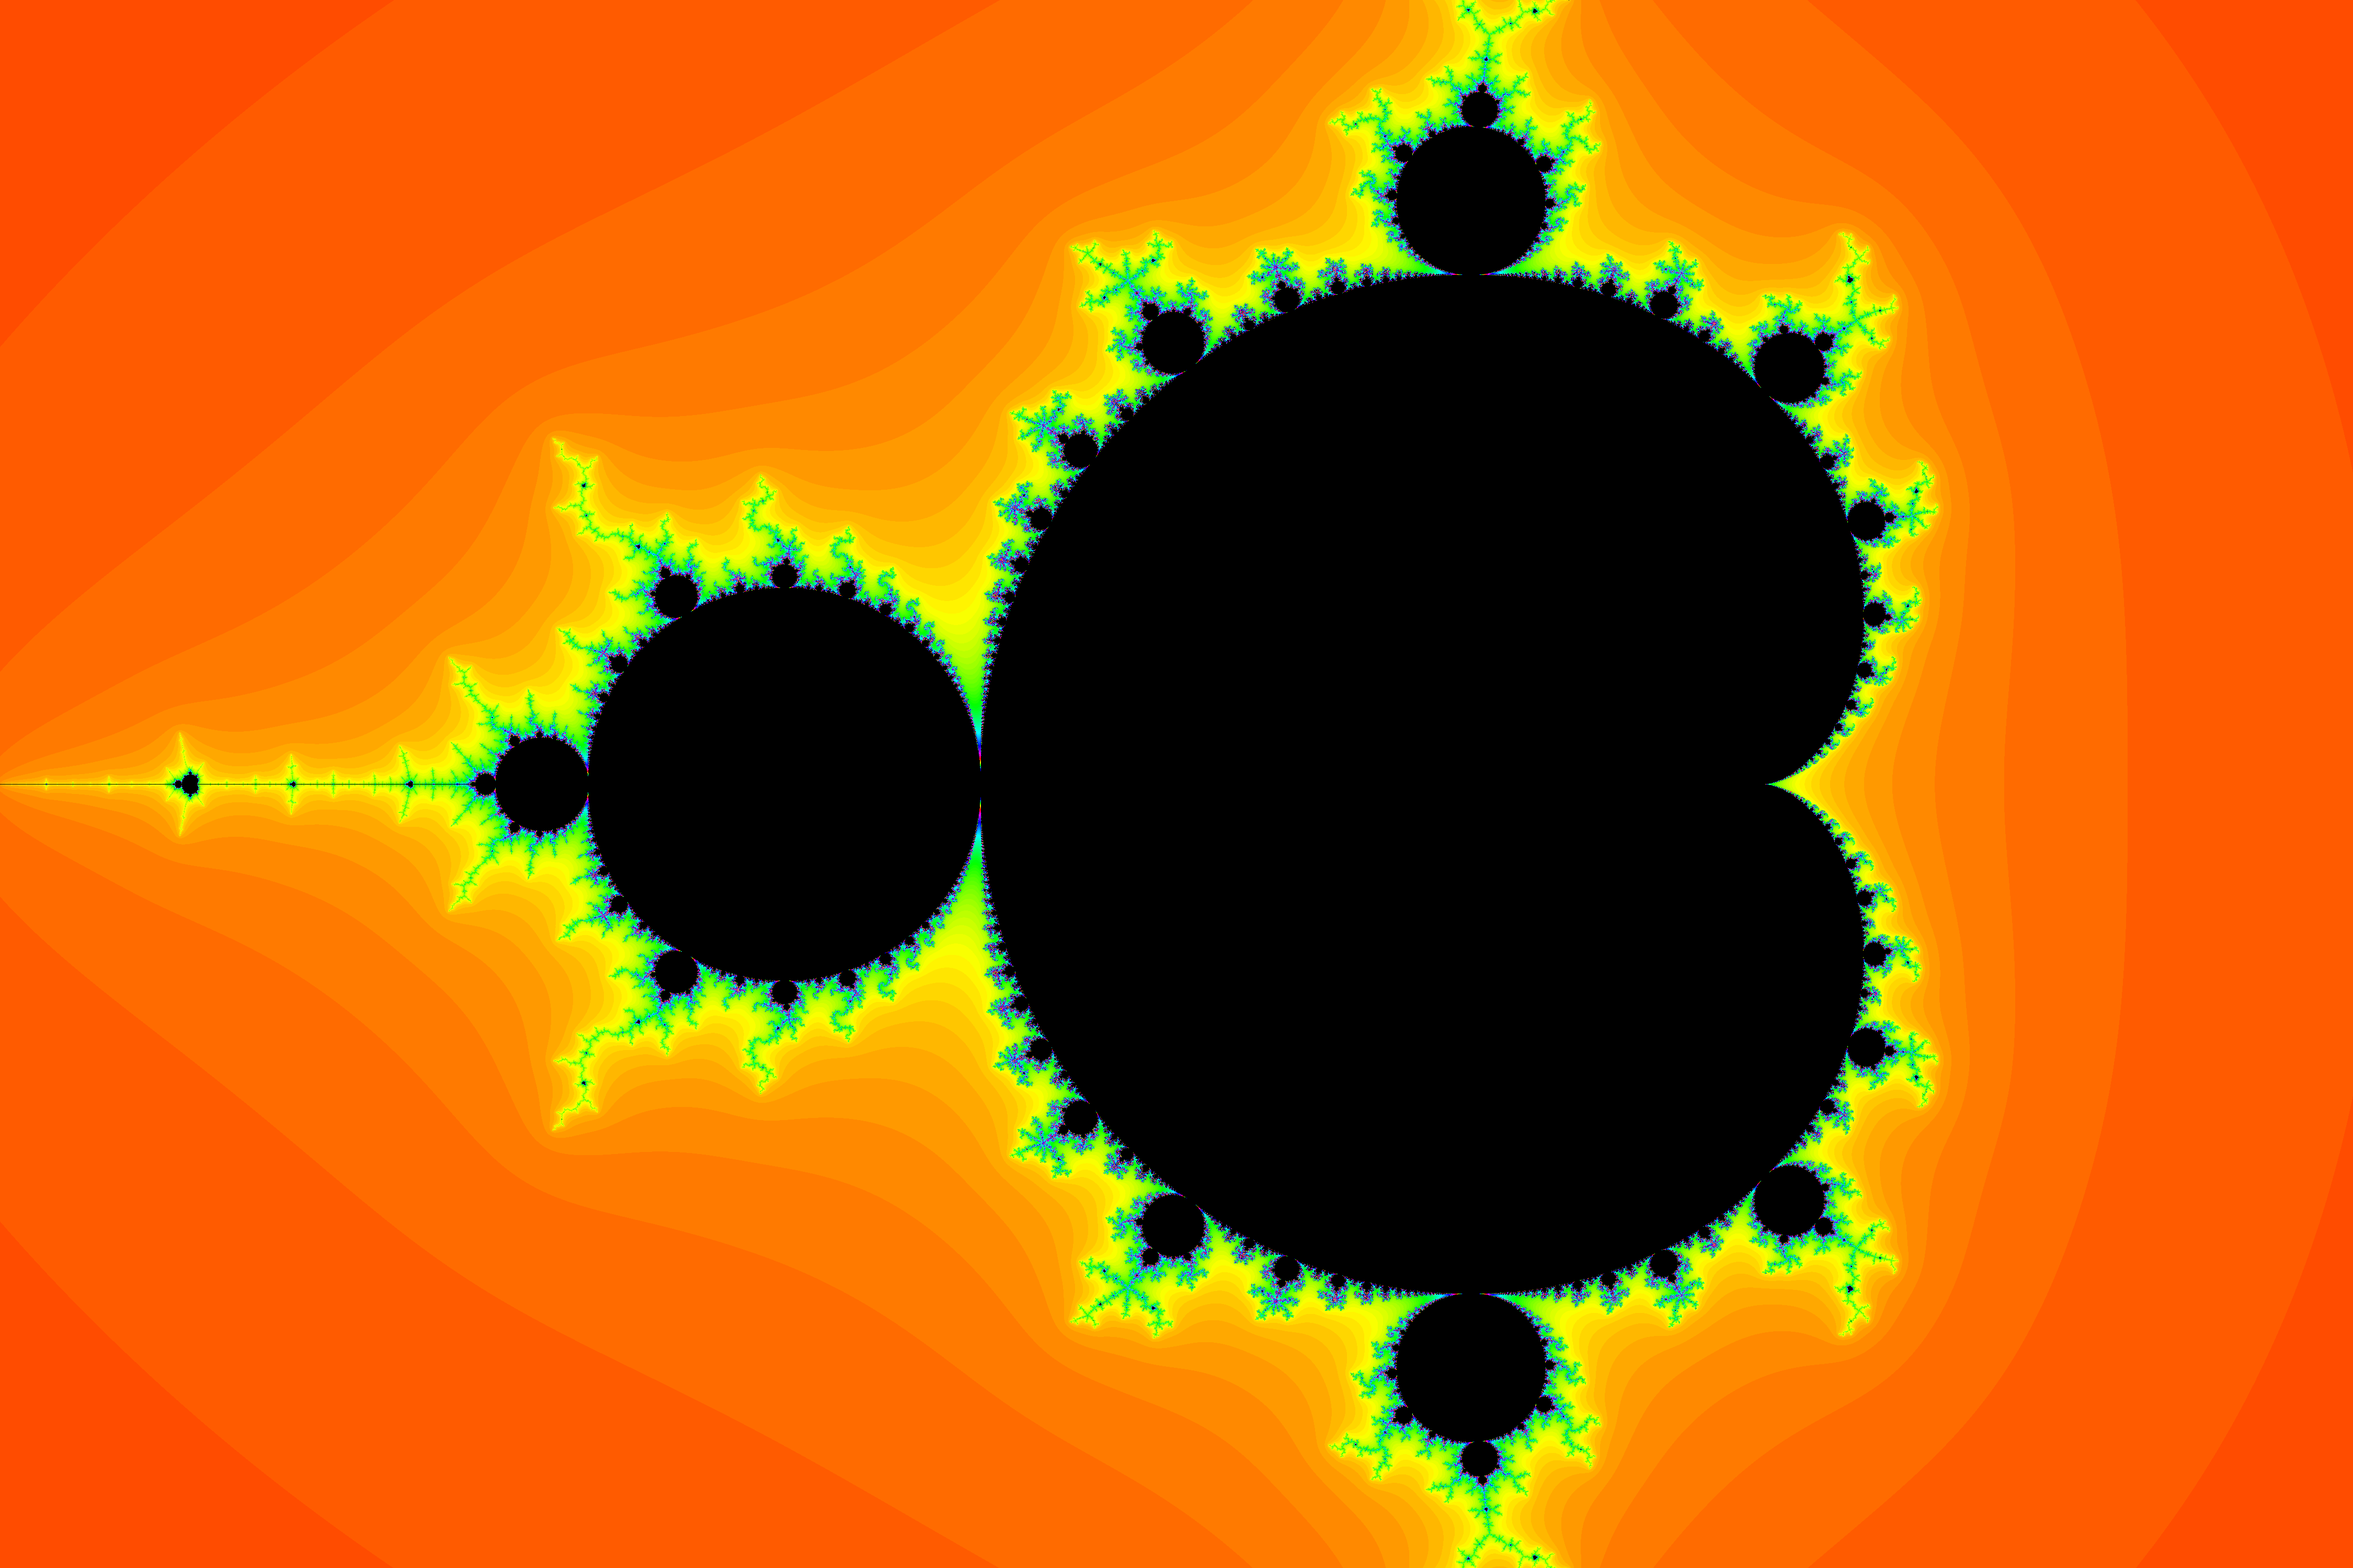
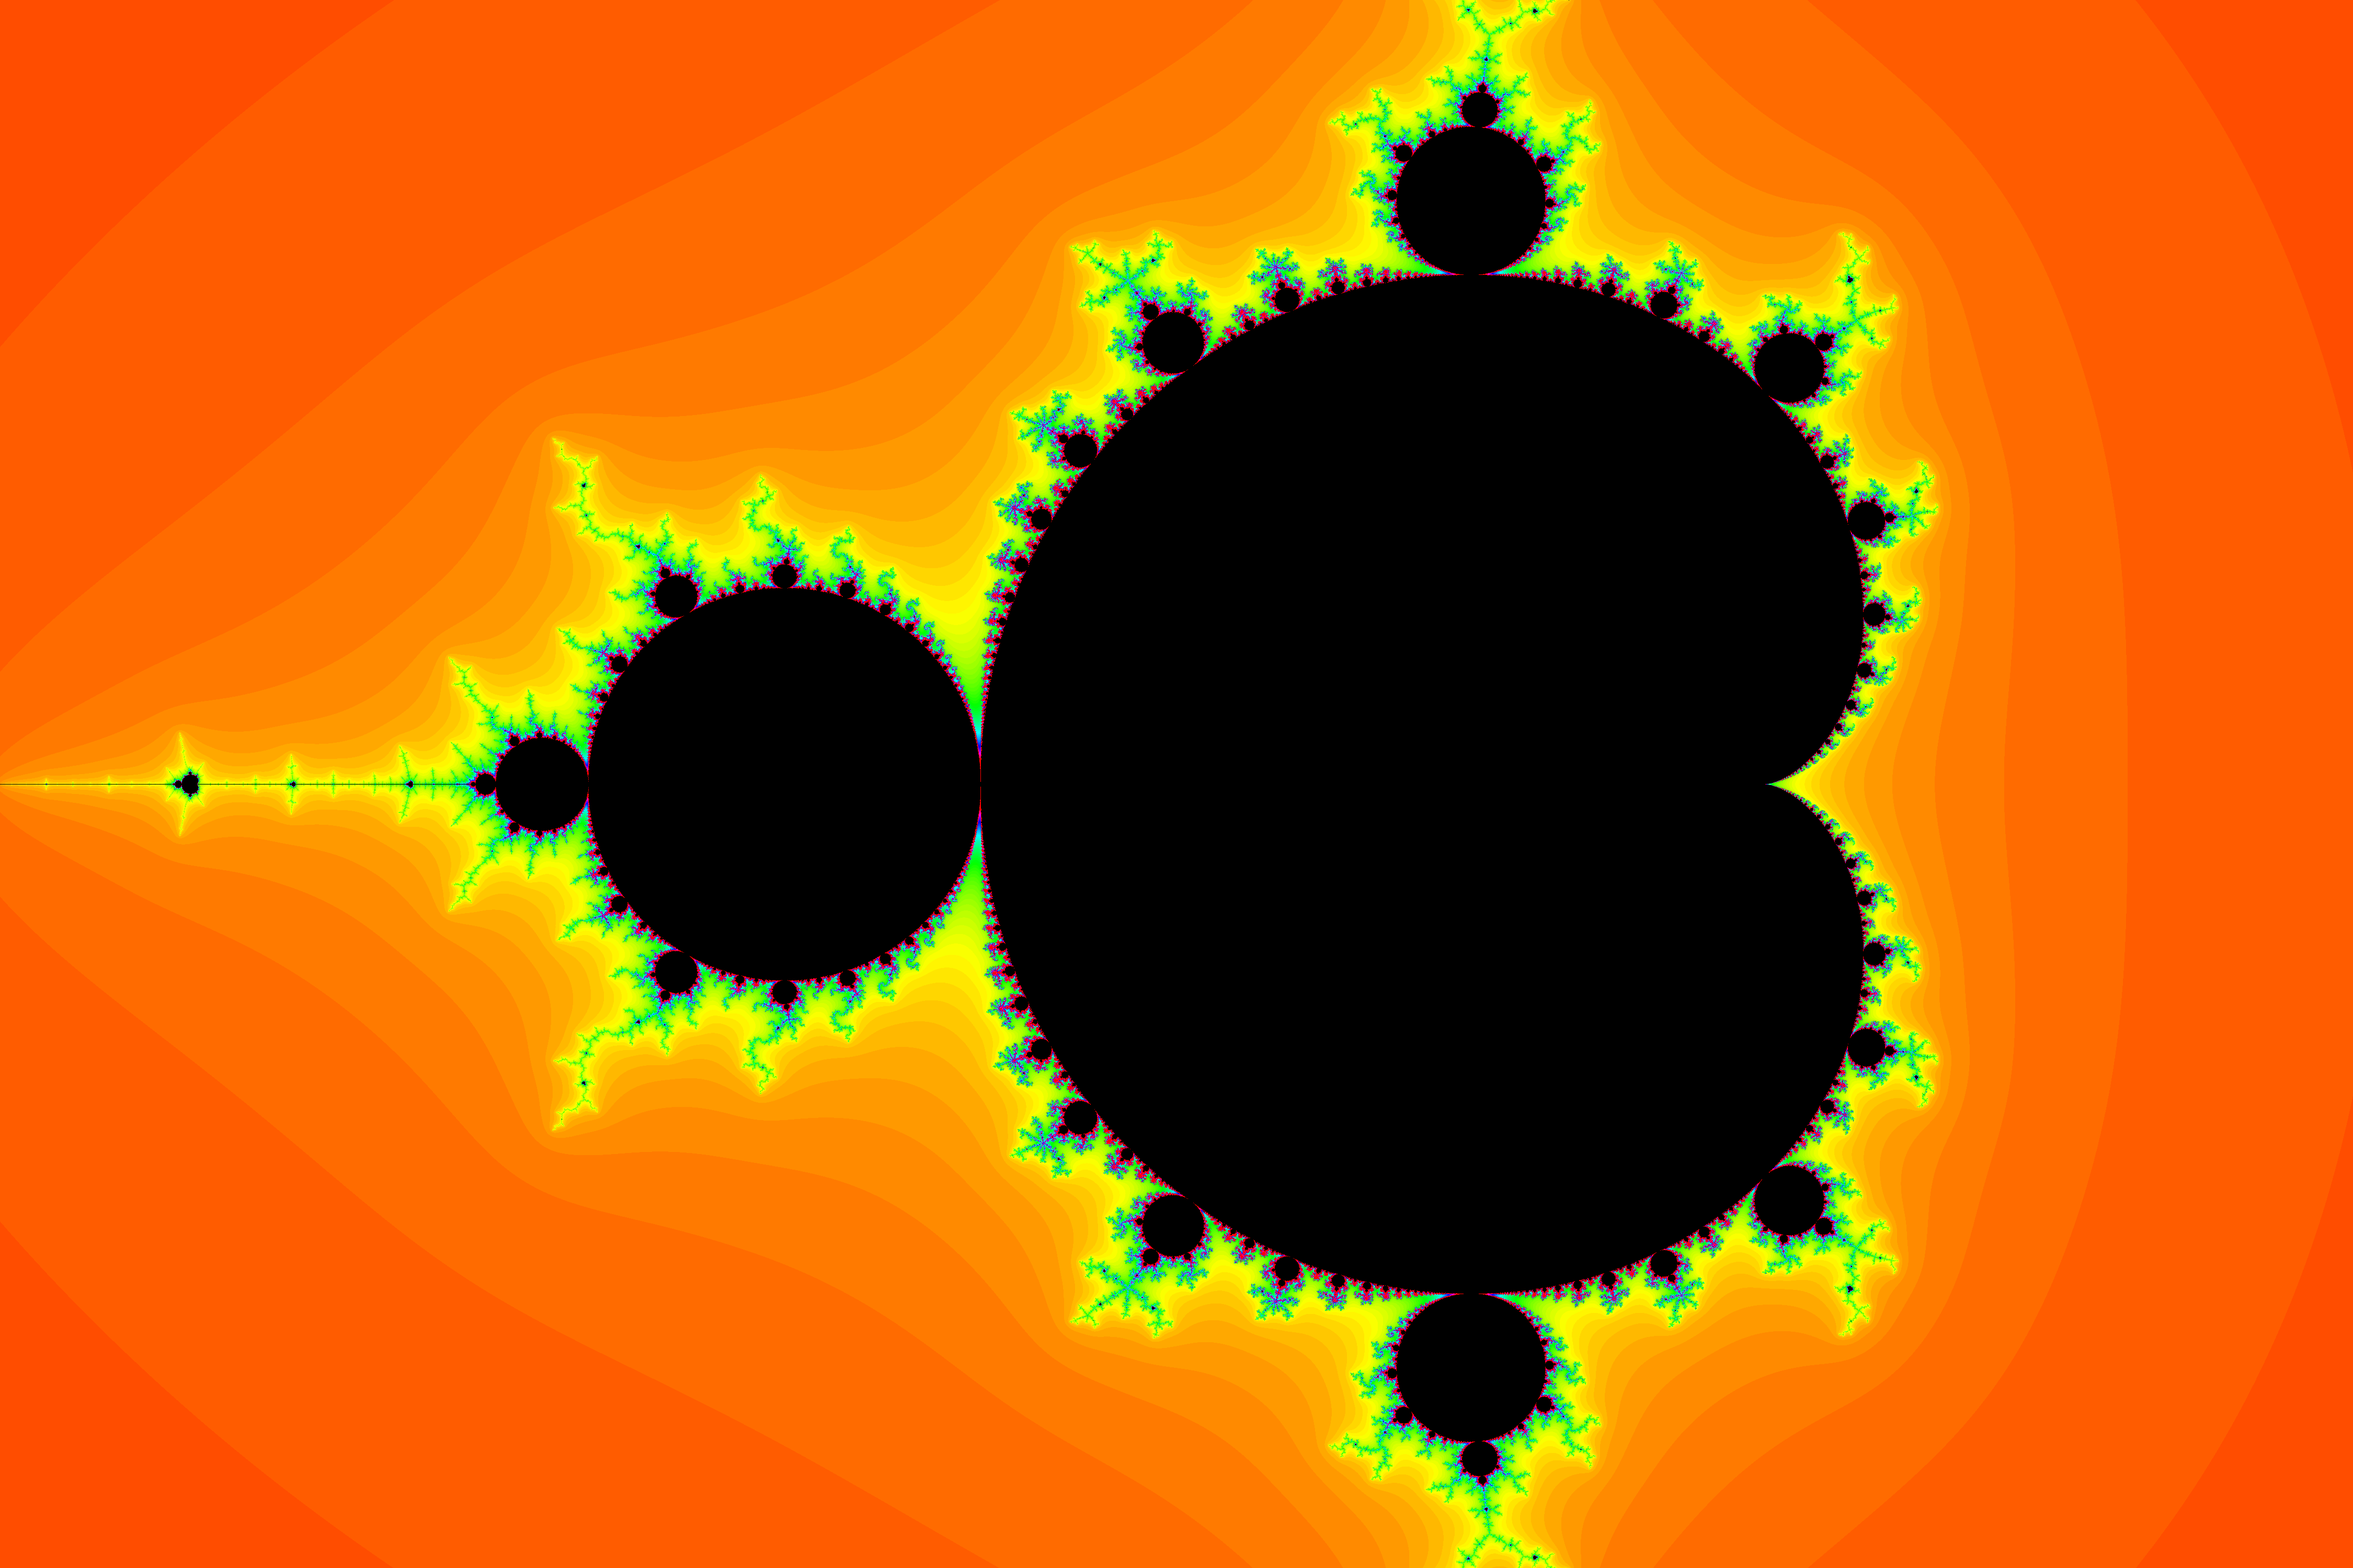
Improvements

diff --git a/MandelbrotSharp/Mandelbrot.cs b/MandelbrotSharp/Mandelbrot.cs
@@ -1,70 +1,46 @@
-using SixLabors.ImageSharp;
+using SixLabors.ImageSharp.ColorSpaces;
+using SixLabors.ImageSharp.ColorSpaces.Conversion;
 
-public class Mandelbrot {
+public class Mandelbrot
+{
 
     public static readonly int MAX_ITERATIONS = 1000;
 
-    public void generateImage(int height) {
-        int width = (int) (height * 1.5);
+    public void generateImage(int height)
+    {
+        int width = (int)(height * 1.5);
         Image<Rgba32> image = new Image<Rgba32>(width, height);
 
-        Parallel.For(0, width, x => {
+        Parallel.For(0, width, x =>
+        {
             // Scale x to (-2, 1), zero is the center
             double real = (x - height) / (height / 2.0);
-            for (int y = 0; y < height; y++) {
+            Parallel.For(0, height, y =>
+            {
                 // Scale y to (-1, 1), zero is the center
                 double imaginary = (y - height / 2.0) / (height / 2.0);
                 Complex c = new Complex(real, imaginary);
                 Complex z = new Complex(0, 0);
                 int iterations = mandelbrot(z, c);
-                image[x, y] = hslToRgb(((iterations / 100.0) * 360.0), 100, iterations < MAX_ITERATIONS ? 50 : 0);
-            }
+
+                var color = new Hsl(((iterations / 100.0f) * 360.0f), 1.0f, iterations < MAX_ITERATIONS ? 0.5f : 0);
+                var rgb = ColorSpaceConverter.ToRgb(color);
+
+                image[x, y] = new Rgba32(rgb.R, rgb.G, rgb.B);
+            });
         });
 
         image.Save("mandelbrot.png");
     }
 
-    private int mandelbrot(Complex z, Complex c) {
+    private int mandelbrot(Complex z, Complex c)
+    {
         int iterations = 0;
-        do {
+        do
+        {
             z = z * z + c;
             iterations++;
-        } while (z.magnitude() < 1000 && iterations < MAX_ITERATIONS);
+        } while (z.magnitudeSquared() < 1000000 && iterations < MAX_ITERATIONS); // |z| < 1000
         return iterations;
     }
-
-    // Hue: 0-360
-    // Saturation: 0-100
-    // Lightness: 0-100
-    private Rgba32 hslToRgb(double hue, double saturation, double lightness) {
-        double h = hue / 360.0;
-        double s = saturation / 100.0;
-        double l = lightness / 100.0;
-        double q = l < 0.5 ? l * (1 + s) : l + s - l * s;
-        double p = 2 * l - q;
-        double r = hueToRgb(p, q, h + 1 / 3.0);
-        double g = hueToRgb(p, q, h);
-        double b = hueToRgb(p, q, h - 1 / 3.0);
-        return new Rgba32((byte)(r * 255), (byte)(g * 255), (byte)(b * 255));
-    }
-
-    private double hueToRgb(double p, double q, double t) {
-        if (t < 0) {
-            t += 1;
-        }
-        if (t > 1) {
-            t -= 1;
-        }
-        if (t < 1 / 6.0) {
-            return p + (q - p) * 6 * t;
-        }
-        if (t < 1 / 2.0) {
-            return q;
-        }
-        if (t < 2 / 3.0) {
-            return p + (q - p) * (2 / 3.0 - t) * 6;
-        }
-        return p;
-    }
-
 }

diff --git a/MandelbrotSharp/Complex.cs b/MandelbrotSharp/Complex.cs
@@ -19,6 +19,10 @@ public class Complex {
         return Math.Sqrt(real * real + imaginary * imaginary);
     }
 
+    public double magnitudeSquared() {
+        return real * real + imaginary * imaginary;
+    }
+
     public static Complex operator -(Complex a, Complex b) {
         return new Complex(a.real - b.real, a.imaginary - b.imaginary);
     }
